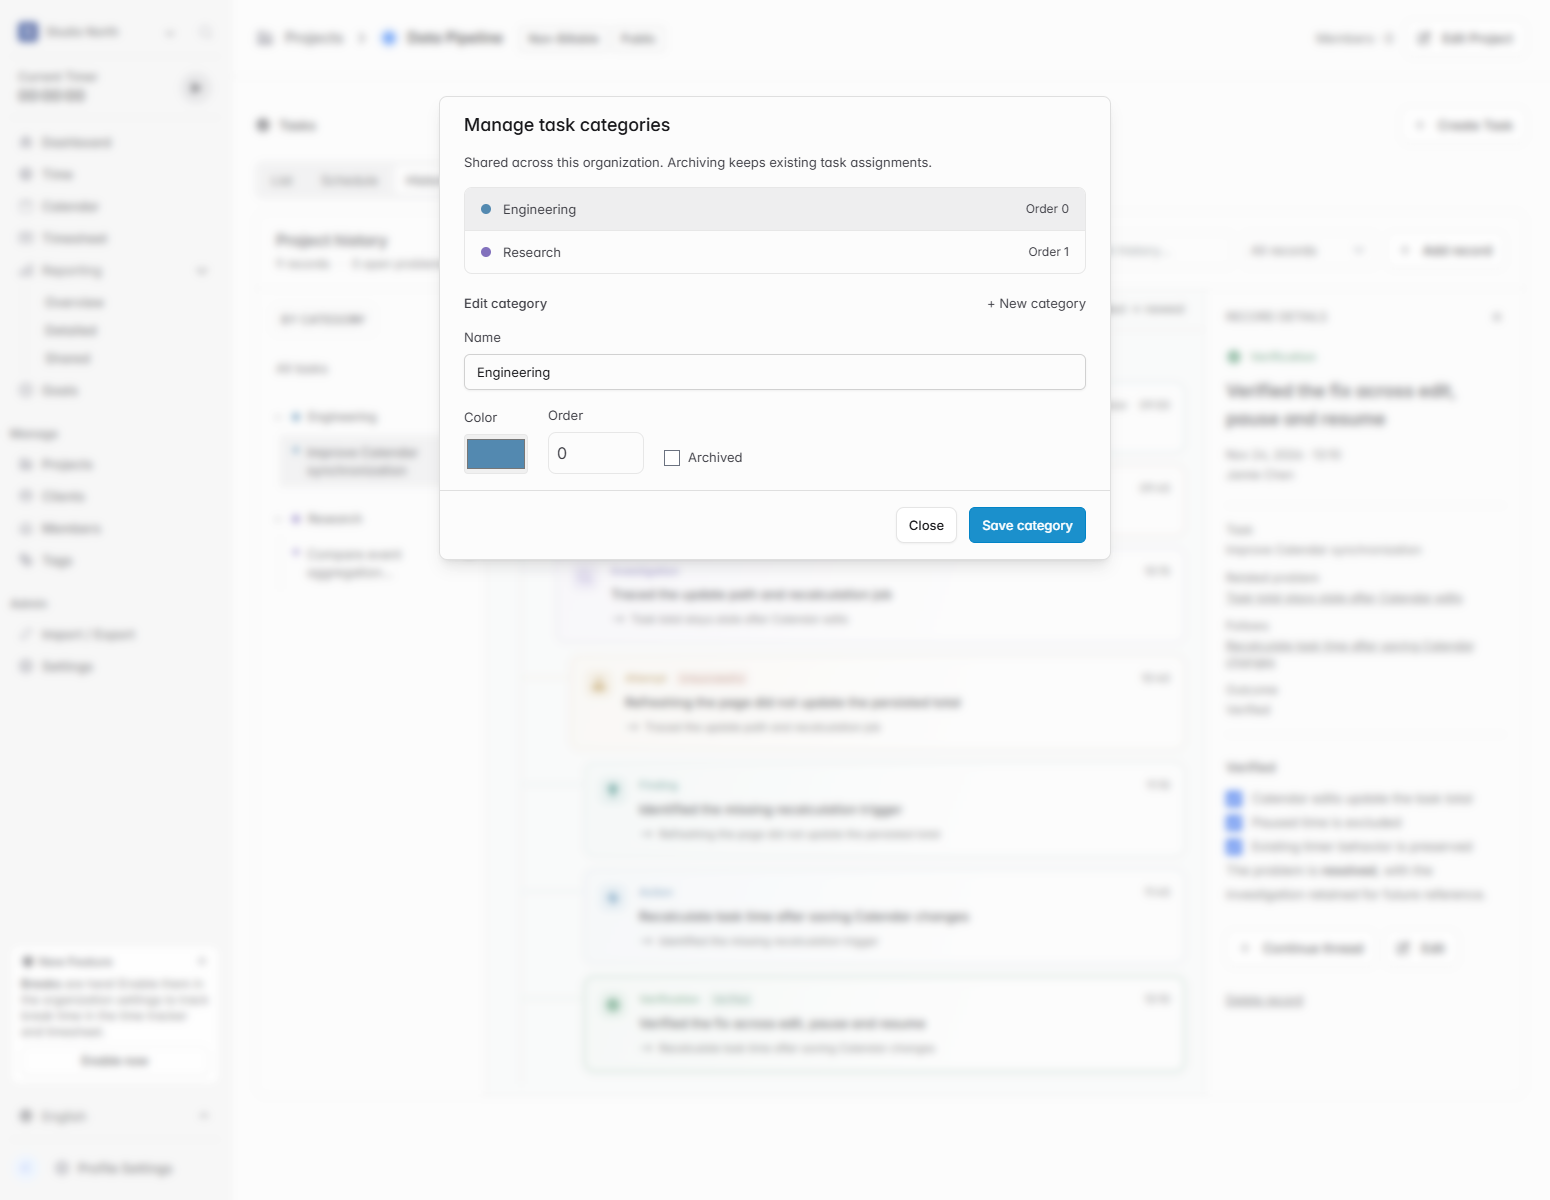
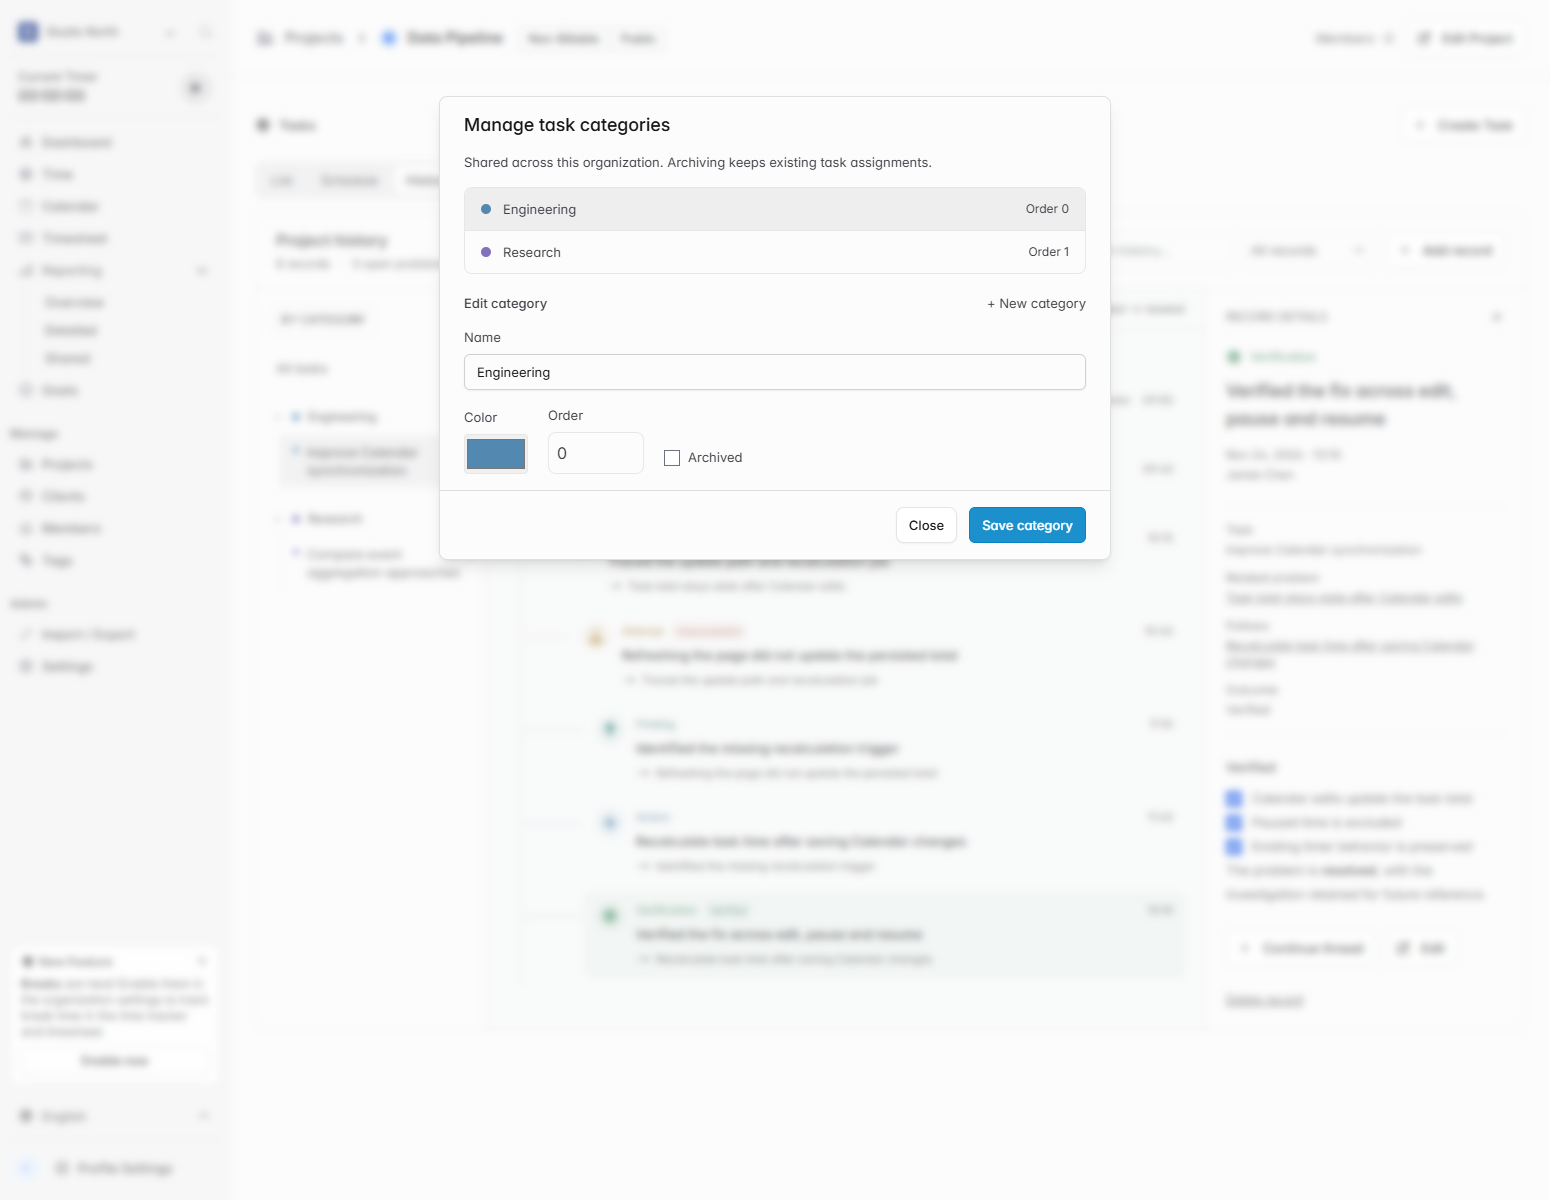
Refresh borderless project history screenshots and PR draft

diff --git a/README.md b/README.md
@@ -11,6 +11,7 @@ Add a **History** view beside the existing task List and Schedule views on a pro
 - Browse all project tasks, including completed and canceled tasks, grouped by category or optional stage.
 - Create organization-wide categories with editable names, colors, display order, and archive status. Existing tasks stay uncategorized until assigned; archiving retains existing assignments.
 - Capture Progress, Problem, Investigation, Attempt, Finding, Action, and Verification records with Markdown notes and an occurrence date.
+- Follow a borderless timeline with thin connecting lines, indented branches, small circular icons, and subtle hover/selection feedback.
 - Link a record to a problem and a preceding record within the same task. Mark unsuccessful attempts, resolved problems, and verified outcomes without overwriting the investigation.
 - Link an accessible Calendar event, or explicitly copy its title, notes, and date into a new record. Existing Calendar notes are not automatically classified or rewritten.
 - Search the timeline, filter open or resolved problems, and inspect the selected record, its relationships, and Calendar source.
@@ -30,7 +31,7 @@ Screenshots below are captured from the actual local application with sample dat
 
 ## Validation
 
-Verified locally on 2026-11-24 against an isolated PostgreSQL sample database.
+Functional validation was performed locally on 2026-11-24 against an isolated PostgreSQL sample database. The borderless timeline styling was checked in the browser on 2026-11-25, including zero row borders/shadows and responsive screenshots.
 
 - PostgreSQL migration applied successfully to a local preview database.
 - PHP endpoint tests: **6 tests, 107 assertions passed**, covering category organization scoping, archive behavior, task field persistence, private-project and Calendar permissions, record relationships and chronology, version conflicts, dependent-record deletion, and existing Stop/Pause timer behavior.
